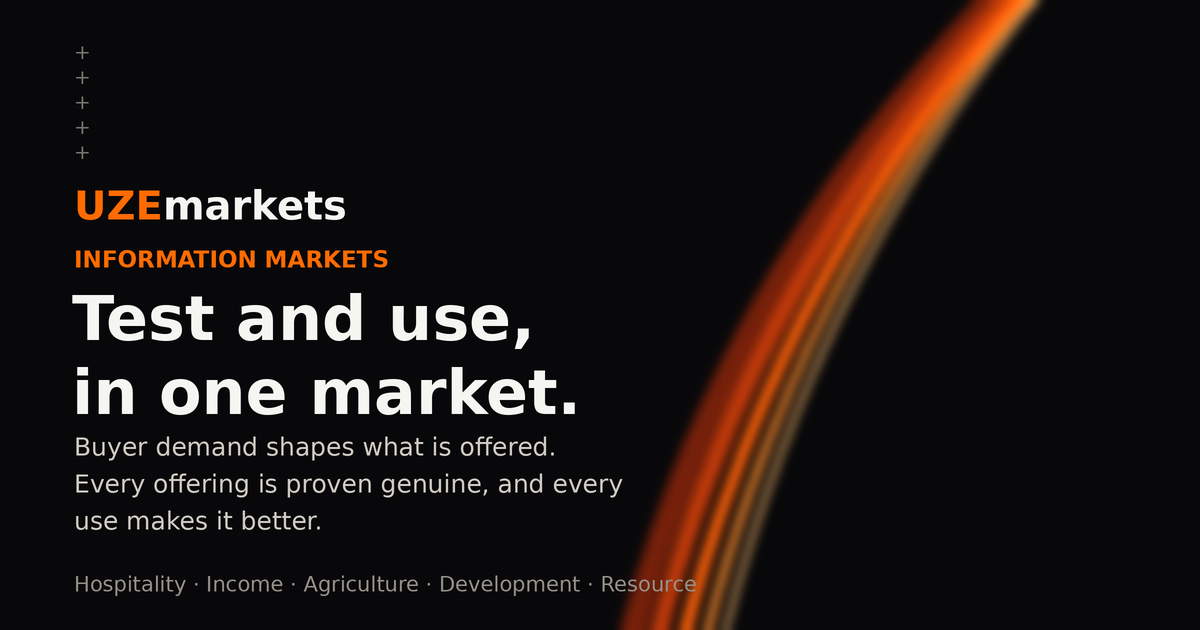
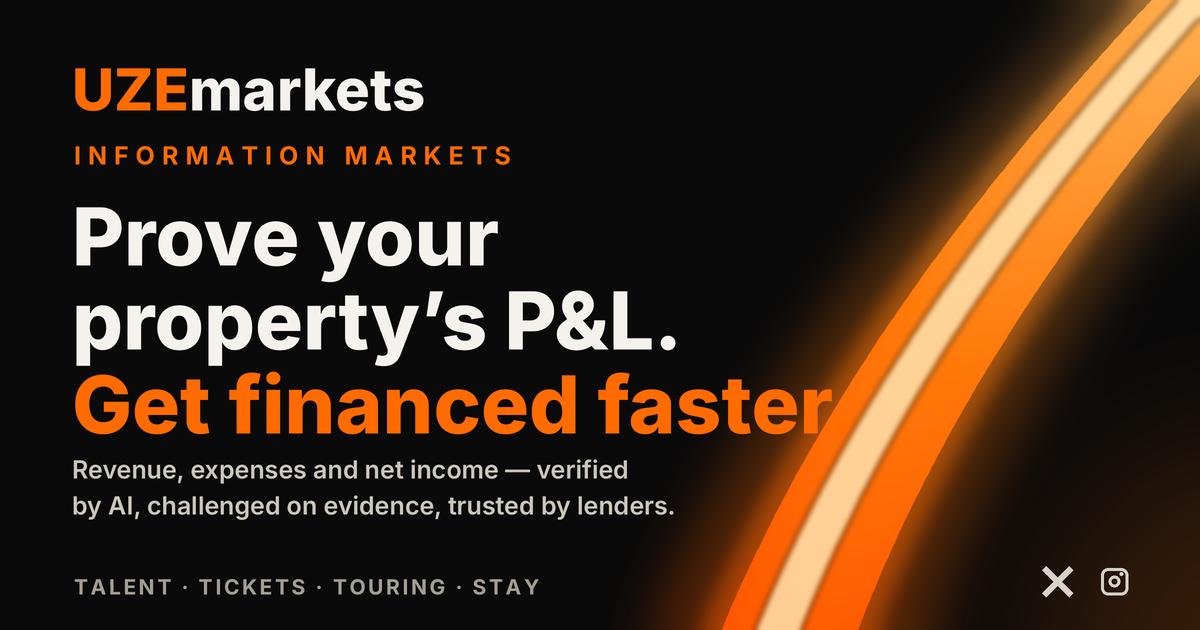
web: OG share graphic v2 (James approval 2026-11-13) — hero language, Talent/Tickets/Touring/Stay footer; og+twitter descriptions aligned, HIADR line retired

diff --git a/apps/uze-web/src/app/layout.tsx b/apps/uze-web/src/app/layout.tsx
@@ -14,7 +14,7 @@ export const metadata = {
     siteName: "UZEmarkets",
     title: "UZEmarkets — Information Markets",
     description:
-      "Test and use Hospitality, Income, Agriculture, Development and Resource in one information market.",
+      "Prove your property's P&L. Get financed faster. Revenue, expenses and net income — verified by AI, challenged on evidence, trusted by lenders.",
     images: [
       {
         url: "/og-uzemarkets.png",
@@ -28,7 +28,7 @@ export const metadata = {
     card: "summary_large_image",
     title: "UZEmarkets — Information Markets",
     description:
-      "Test and use Hospitality, Income, Agriculture, Development and Resource in one information market.",
+      "Prove your property's P&L. Get financed faster. Revenue, expenses and net income — verified by AI, challenged on evidence, trusted by lenders.",
     images: ["/og-uzemarkets.png"],
   },
 };
